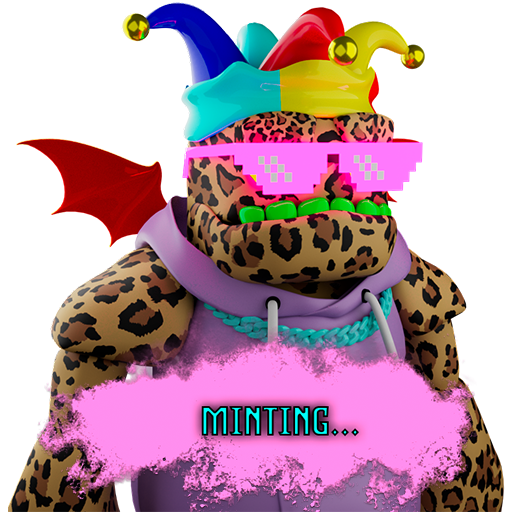
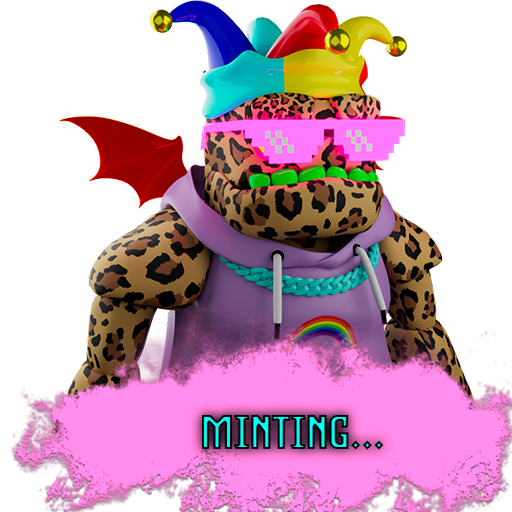
responsive

diff --git a/src/components/InfoSection/InfoSection.elements.js b/src/components/InfoSection/InfoSection.elements.js
@@ -58,7 +58,7 @@ export const TextWrapper = styled.div`
 
 export const ImgWrapper = styled.div`
   background: ${({ BackgroundColor}) => (BackgroundColor ? `${BackgroundColor}` : 'transparent')};
-  max-width: 555;
+  
   display: flex;
   margin:${({Margin})=>(Margin ? `${Margin}px` : '0px')};
   margin-left:${({MarginLeft})=>(MarginLeft ? `${MarginLeft}px` : '0px')};
@@ -66,9 +66,22 @@ export const ImgWrapper = styled.div`
   margin-top:${({MarginTop})=>(MarginTop ? `${MarginTop}px` : '0px')};
   margin-right:${({MarginRight})=>(MarginRight ? `${MarginRight}px` : '0px')};
   justify-content:${({ JustifyContent}) => (JustifyContent ? `${JustifyContent}` : 'Center')};
-  align-items:flex-end;
+  align-items:center;
   z-index: ${({Zindex})=>(Zindex ? `${Zindex}`: '0')};
-  position:${({Position})=>(Position?`${Position}` : 'unset')}
+  position:${({Position})=>(Position?`${Position}` : 'relative')};
+  width:100%;
+
+
+  
+  
+  
+  @media screen and (max-width: 768px) {
+    max-width: 100%;
+    width:"20px";
+    flex-basis: 100%;
+    display: flex;
+    justify-content: center;
+  }
 `;
 export const ImgWraperMargin = styled.div`
   background:black;
@@ -79,6 +92,7 @@ export const ImgWraperMargin = styled.div`
 `;
 
 export const TopLine = styled.div`
+
   color: ${({textColor}) => (textColor ? `${textColor}` : 'white')};
   font-size: 18px;
   line-height: 16px;

diff --git a/src/components/Main/Home.js b/src/components/Main/Home.js
@@ -70,9 +70,9 @@ function Home() {
   }, [blockchain.account]);
   return (
     <div className="main">
-      <ImgWrapper BackgroundColor="Black"> 
-          <img src="https://ethclusiveart.com/files/intro.gif" 
-          loop="true" controls></img>
+      <ImgWrapper>
+          <img src="https://ethclusiveart.com/files/intro.gif" className="imgClass"
+          loop="true"></img>
         </ImgWrapper>
         <InfoRow black>
           <InfoColumn>
@@ -116,20 +116,21 @@ function Home() {
                 <Heading>
                   ETH &nbsp; &nbsp;        
                 </Heading>
-                <TopLine textColor="Yellow">
+                <TopLine textColor="Yellow" >
                   {10033-Number(data.totalSupply)} remaining!
                 </TopLine>
                 </InfoRow>
               </TextWrapper>
               
             </Pinkcontainer>
+     
             <br/>
             <hr color="#FF11FA" />
             <br/>
             <Pinkcontainer Big PinkColor>
               <TextWrapper>
                 <InfoRow>
-                <Input onChange={event=>SetMintValue(event.target.value)}>
+                <Input onChange={event=>SetMintValue(event.target.value)} disabled={blockchain.account=== "" || blockchain.smartContract===null ? 1: 0}>
                     
                 </Input>
                 <TopLine textColor="Yellow">

diff --git a/src/components/Navbar/Navbar.js b/src/components/Navbar/Navbar.js
@@ -115,11 +115,18 @@ function Navbar() {
                     
                   </NavBtnLink>
                 ) : (
-                  <NavBtnLink to='/sign-up'>
+                  <InfoRow>
                     <Button onClick={closeMobileMenu} fontBig primary>
-                      SIGN UP
+                      Telegram
                     </Button>
-                  </NavBtnLink>
+                    &nbsp;
+                    <Button onClick={closeMobileMenu} fontBig primary>
+                      Twitter
+                    </Button>
+                  </InfoRow>
+                  
+                  
+                  
                 )}
               </NavItemBtn>
             </NavMenu>

diff --git a/src/components/Game/Game.js b/src/components/Game/Game.js
@@ -124,7 +124,7 @@ function VolumenSumergido() {
     }
 }
 function HandleKeyDown(ev){
-    if(ev.keyCode == 13){
+    if(ev.keyCode == 32){
         Saltar();
     }
 }
@@ -335,14 +335,13 @@ function IsCollision(a, b, paddingTop, paddingRight, paddingBottom, paddingLeft)
    
     </Container>
     
-    <Container Width="70" BackgroundColor="red">
+    <ImgWrapper >
     <button className="ButtonRestart" onClick={Reset}>Restart</button>
+    </ImgWrapper>
+    <ImgWrapper>
     <img src={Continue} onClick={() => history.push('/home')}></img>
     <img src={Click} width="50" Zindex="3"></img>
- 
-    
-   
-    </Container>
+    </ImgWrapper>
         
         
 

diff --git a/src/components/Game/Game.css b/src/components/Game/Game.css
@@ -11,7 +11,8 @@
 }
 .ButtonRestart{
     background: transparent;
-    color: pink;
+    color: white;
+    border: thin;
 }
 .contenedor {
 
@@ -20,7 +21,6 @@
     margin: 0 auto;
     margin-top: 50px;
     position: relative;
-
     background: linear-gradient(#b7d6c7 0%, transparent 60%, transparent 80%,  #6d757e 100%) #ffe2d1;/*linear-gradient(#90ebff, white);*/
     transition: background-color 1s linear;
     overflow: hidden;

diff --git a/src/components/Navbar/Navbar.elements.js b/src/components/Navbar/Navbar.elements.js
@@ -44,7 +44,8 @@ export const NavIcon = styled(FaMagento)`
 
 export const MobileIcon = styled.div`
   display: none;
-
+  color:red;
+  background:white;
   @media screen and (max-width: 960px) {
     display: block;
     position: absolute;

diff --git a/src/globalStyles.js b/src/globalStyles.js
@@ -10,7 +10,6 @@ const GlobalStyle = createGlobalStyle`
 `;
 
 export const Container = styled.div`
-  
   z-index: 1;
   position: relative;
   width:${({ Width}) => (Width ? `${Width}%` : '100%')};

diff --git a/src/components/Main/Home.css b/src/components/Main/Home.css
@@ -4,3 +4,15 @@
 
     
 }
+.imgClass{
+
+width: 70%;
+height: 100%;
+max-height: 650px;
+max-height: 800px;
+object-fit: contain;
+@media screen max-width: 768px{
+    object-fit: contain;
+}
+}
+

diff --git a/src/components/ Slider/Slider.css b/src/components/ Slider/Slider.css
@@ -38,10 +38,12 @@
   cursor: pointer;
   z-index: 10;
   
+  
 }
 
 .arrow svg {
   transition: color 300ms;
+  color: white  ;
 }
 
 .arrow svg:hover {
